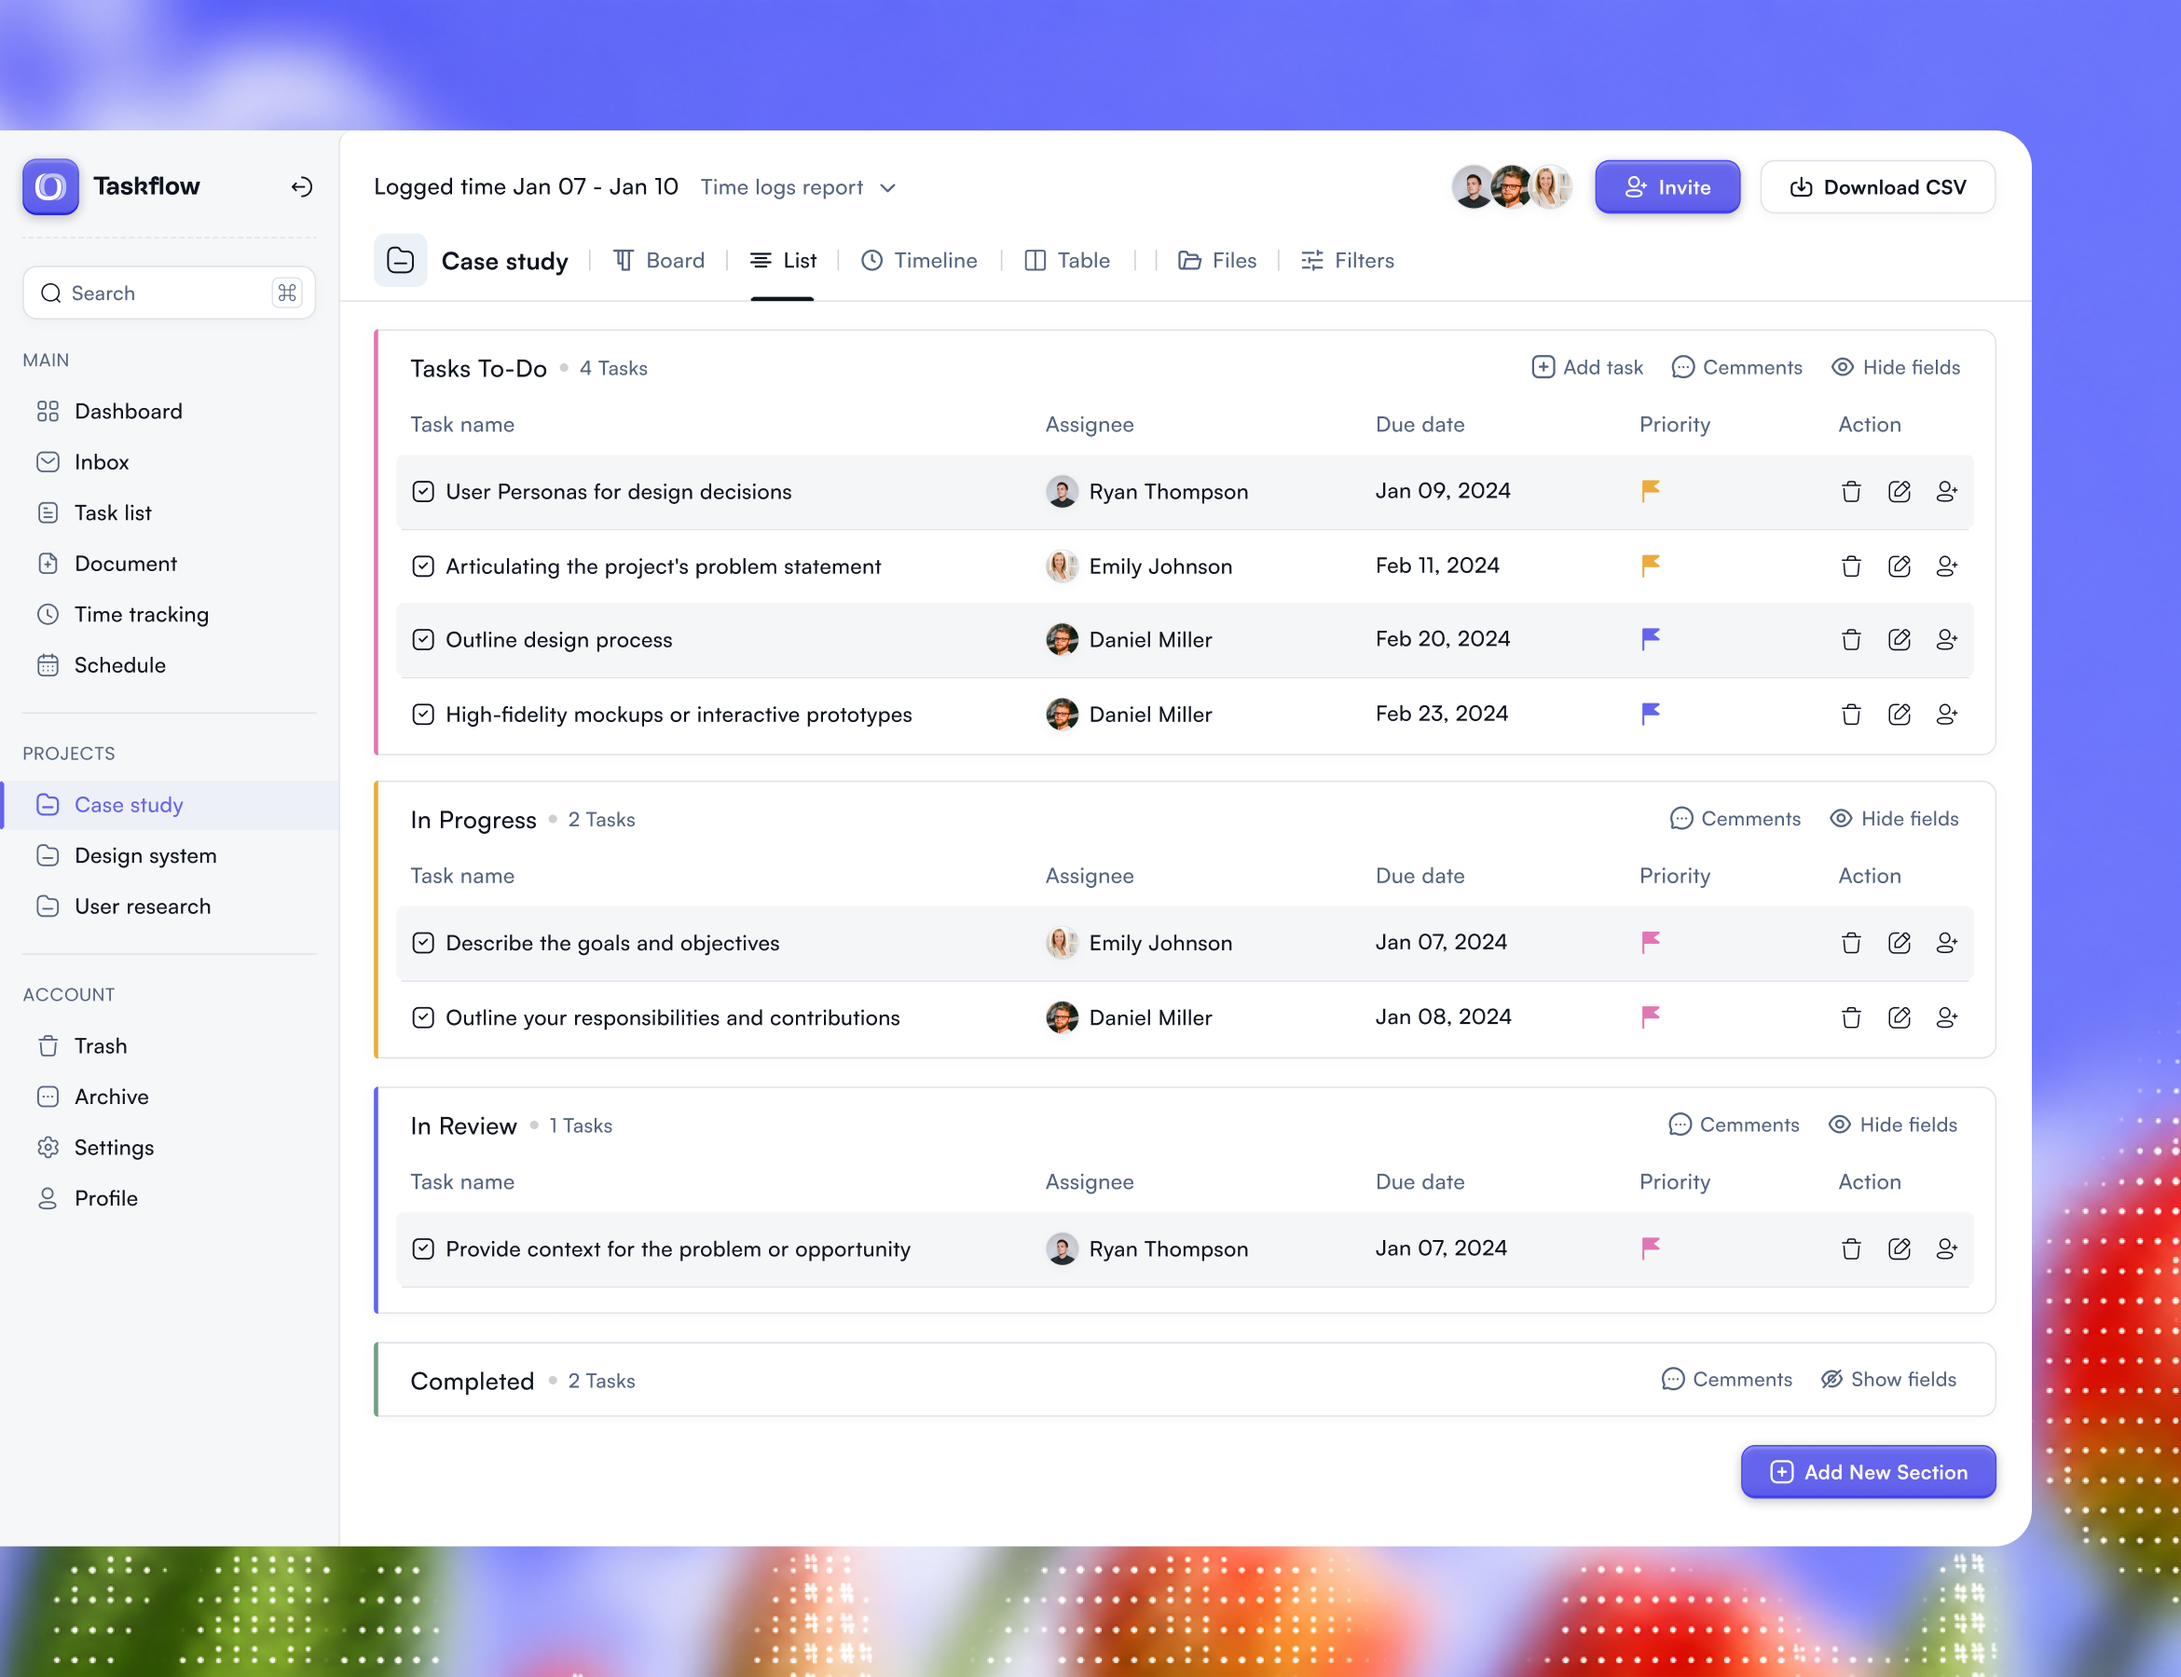
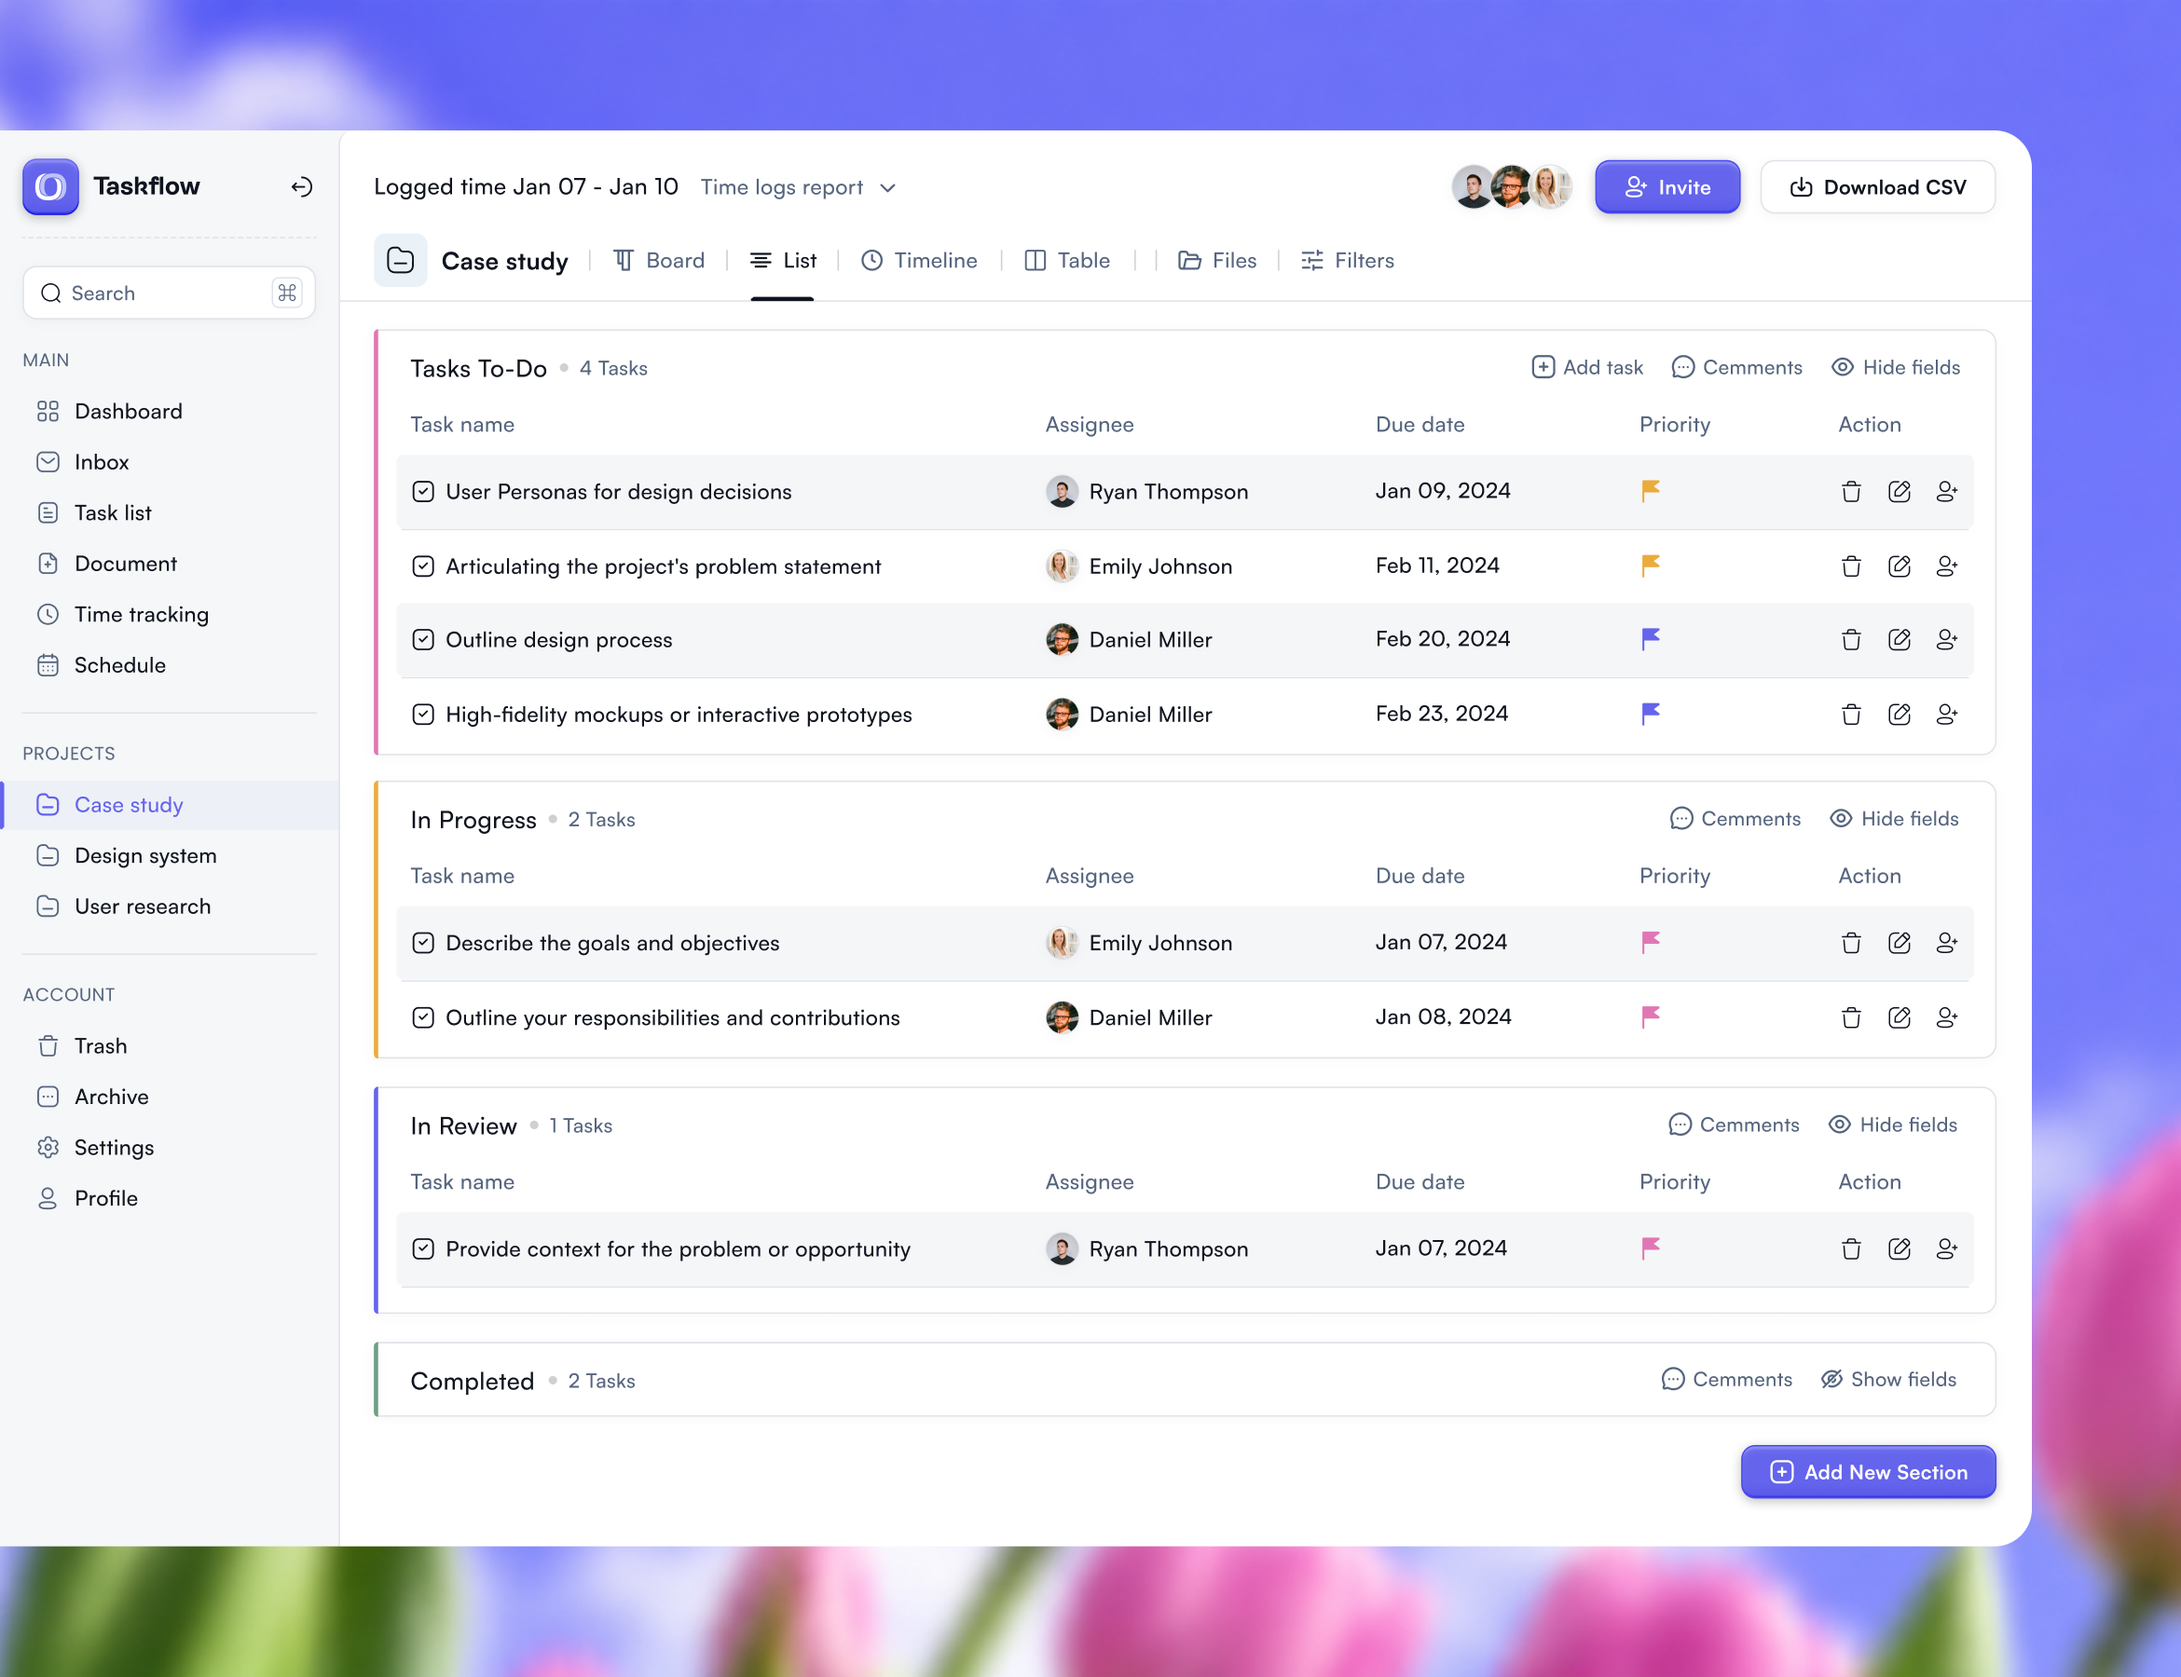
Update Proto 02 image

Changed region(s): [[0.312, 0.6222, 1.0, 1.0], [0.0, 0.9022, 0.2808, 1.0]]

diff --git a/src/components/SelectedWorks.tsx b/src/components/SelectedWorks.tsx
@@ -6,7 +6,7 @@ import { motion, AnimatePresence } from "framer-motion";
 
 const WORK_ITEMS = [
   { id: "proto-01", title: "Proto. 01", image: "/assets/works/proto-01.png?v=17" },
-  { id: "proto-02", title: "Proto. 02", image: "/assets/works/proto-02.png?v=17" },
+  { id: "proto-02", title: "Proto. 02", image: "/assets/works/proto-02.png?v=18" },
   { id: "proto-03", title: "Proto. 03", image: "/assets/works/proto-03.png?v=18" },
   { id: "proto-04", title: "Proto. 04", image: "/assets/works/proto-04.png?v=17" },
   { id: "proto-05", title: "Proto. 05", image: "/assets/works/proto-05.png?v=17" },
